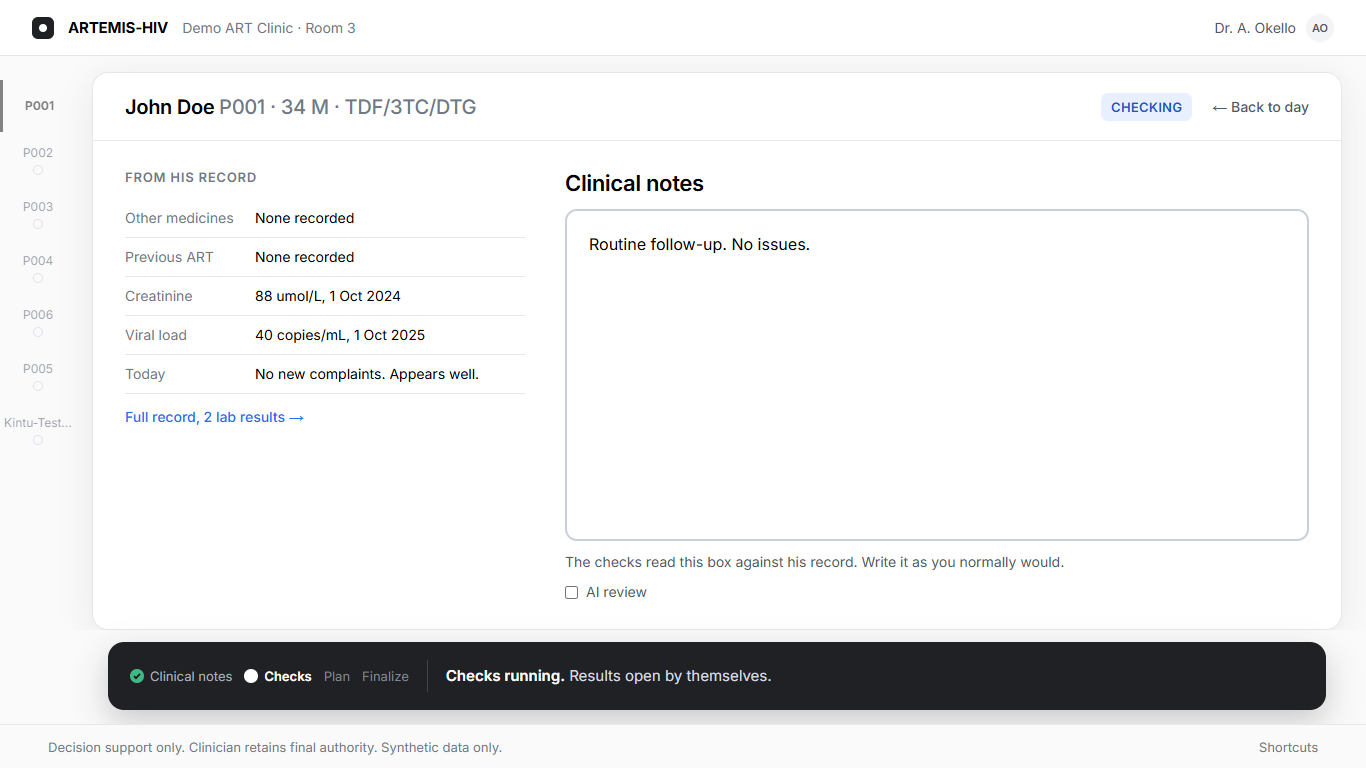
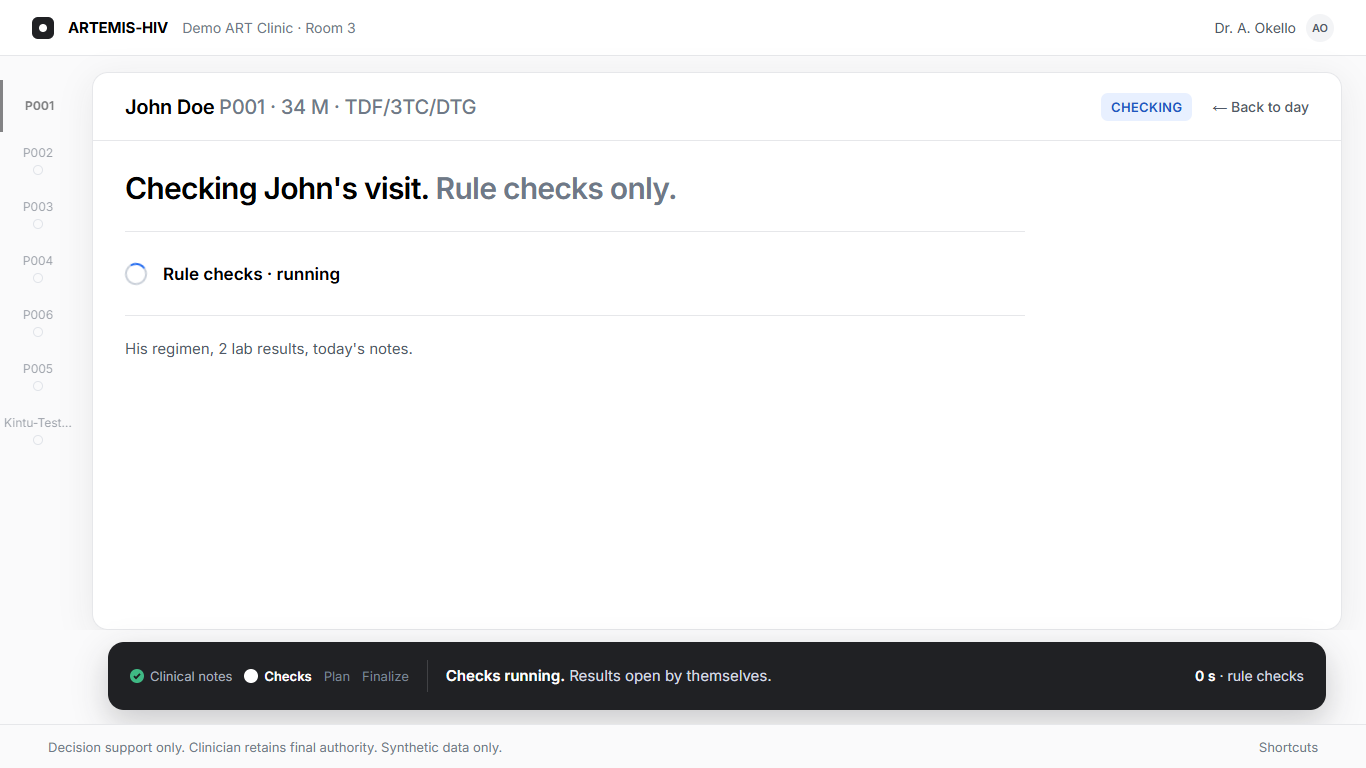
Checks running (step 4, screen S3), kept honest
The design shows per-step progress ("Rule checks · done, 2 alerts found",
"2 of 3 checks done"). The API answers once, when everything is done, so
the screen shows the design's layout with what is true: each check
"running", the real seconds so far, a bar that fills by time against the AI
review's usual 15 seconds (labelled "about", never reaching the end), and
what the checks read, from the record. The design's "the results will wait
in Rose's row" is left off until a saved visit can be reopened.

The browser test holds the request 1.5 s so the running screen is always
there to check; the screenshot with the AI review ticked never calls a
model (the request is held, then cancelled).

diff --git a/web/src/app/patients/[patientId]/running-view.tsx b/web/src/app/patients/[patientId]/running-view.tsx
@@ -1,0 +1,93 @@
+// Checks running (Paper FINAL S3), kept honest: the API answers once, when every check is done,
+// so no row says "done" early and nothing counts alerts before the answer. The seconds are real;
+// the bar is time against the AI review's usual length, never progress the API reported.
+import { useEffect, useState } from "react";
+
+import type { PatientDetail } from "@/lib/api/client";
+import { firstName } from "@/lib/alerts";
+import { checkReads } from "@/lib/record";
+
+/** The AI review's usual length (GLM 5.2 averaged 14 s in Phase 2; the design says about 15). */
+export const AI_USUAL_SECONDS = 15;
+
+/** Whole seconds since `startedAt`, ticking once a second. */
+export function useElapsedSeconds(startedAt: number): number {
+  const [now, setNow] = useState(startedAt);
+  useEffect(() => {
+    const tick = setInterval(() => setNow(Date.now()), 1000);
+    return () => clearInterval(tick);
+  }, []);
+  return Math.max(0, Math.floor((now - startedAt) / 1000));
+}
+
+/** How far the bar reaches: elapsed time against the usual length, stopping short of the end. */
+export function barShare(seconds: number): number {
+  return Math.min(seconds / AI_USUAL_SECONDS, 0.95);
+}
+
+export function RunningView({ patient, aiReview, seconds }: { patient: PatientDetail; aiReview: boolean; seconds: number }) {
+  return (
+    <section aria-label="Checks running" className="flex flex-col gap-6">
+      <h2 className="max-w-225 text-30 font-semibold tracking-[-0.025em] text-black">
+        Checking {firstName(patient.name || "the patient")}&apos;s visit.{" "}
+        <span className="text-muted-foreground">
+          {aiReview ? `The AI review takes about ${AI_USUAL_SECONDS} seconds.` : "Rule checks only."}
+        </span>
+      </h2>
+      <ul className="flex max-w-225 flex-col border-t border-line">
+        <Row title="Rule checks" state="running" />
+        {aiReview && <Row title="AI review" state="reading" seconds={seconds} />}
+      </ul>
+      <p className="max-w-225 text-15 leading-[18px] text-ink-2" aria-live="off">
+        {checkReads(patient, aiReview)}
+      </p>
+    </section>
+  );
+}
+
+function Row({ title, state, seconds }: { title: string; state: string; seconds?: number }) {
+  return (
+    <li className="flex min-h-21 items-center gap-4 border-b border-line py-4">
+      <span aria-hidden className="size-5.5 shrink-0 animate-spin rounded-full border-2 border-line-strong border-t-blue motion-reduce:animate-none" />
+      <div className="flex flex-1 flex-col gap-2">
+        <p className="text-17 font-semibold text-black">
+          {title} · {state}
+          {seconds !== undefined && (
+            <span className="font-medium text-muted-foreground">
+              {" "}
+              {seconds} s of about {AI_USUAL_SECONDS} s
+            </span>
+          )}
+        </p>
+        {seconds !== undefined && (
+          <div className="h-1.5 w-full rounded-[3px] bg-blue-wash">
+            <div className="h-1.5 rounded-[3px] bg-blue transition-[width] duration-1000 ease-linear" style={{ width: `${barShare(seconds) * 100}%` }} />
+          </div>
+        )}
+      </div>
+    </li>
+  );
+}
+
+/** The running screen, counting its own seconds. */
+export function Running({ patient, aiReview, startedAt }: { patient: PatientDetail; aiReview: boolean; startedAt: number }) {
+  return <RunningView patient={patient} aiReview={aiReview} seconds={useElapsedSeconds(startedAt)} />;
+}
+
+/** The tray's right side while the checks run (S3): the seconds so far, and the same bar. */
+export function RunningTrayStatus({ aiReview, startedAt }: { aiReview: boolean; startedAt: number }) {
+  const seconds = useElapsedSeconds(startedAt);
+  return (
+    <div className="flex shrink-0 flex-col items-end gap-2 pr-2.5">
+      <p className="text-14 leading-[18px] text-tray-text">
+        <span className="font-semibold text-white">{seconds} s</span>
+        {aiReview ? ` · AI review about ${AI_USUAL_SECONDS} s` : " · rule checks"}
+      </p>
+      {aiReview && (
+        <div className="h-[5px] w-60 rounded-[3px] bg-white/15">
+          <div className="h-[5px] rounded-[3px] bg-white transition-[width] duration-1000 ease-linear" style={{ width: `${barShare(seconds) * 100}%` }} />
+        </div>
+      )}
+    </div>
+  );
+}

diff --git a/web/src/app/patients/[patientId]/visit-screen.tsx b/web/src/app/patients/[patientId]/visit-screen.tsx
@@ -17,6 +17,7 @@ import { possessive } from "@/lib/record";
 import { AlertView } from "./alert-view";
 import { OverrideView } from "./override-view";
 import { RecordPanel } from "./record-panel";
+import { Running, RunningTrayStatus } from "./running-view";
 import { decisionWords, ResultsView } from "./results-view";
 
 const NOTES_FORM = "clinical-notes";
@@ -89,13 +90,25 @@ function Visit({ patient }: { patient: PatientDetail }) {
   );
 
   // A new check starts the review afresh.
-  return <VisitView key={check.data?.visit_id ?? "before"} patient={patient} check={check} notesForm={notesForm} />;
+  // The AI review this run: the box, unless "Run the AI review again" asked for it.
+  const aiThisRun = check.variables?.useAi ?? useAi;
+  return <VisitView key={check.data?.visit_id ?? "before"} patient={patient} check={check} notesForm={notesForm} aiThisRun={aiThisRun} />;
 }
 
 /** Which screen the pane shows. The results screen comes first after the checks (owner, 2026-11-26). */
 type View = { name: "notes" } | { name: "results" } | { name: "alert"; i: number } | { name: "override"; i: number; other: boolean };
 
-function VisitView({ patient, check, notesForm }: { patient: PatientDetail; check: CheckMutation; notesForm: React.ReactNode }) {
+function VisitView({
+  patient,
+  check,
+  notesForm,
+  aiThisRun,
+}: {
+  patient: PatientDetail;
+  check: CheckMutation;
+  notesForm: React.ReactNode;
+  aiThisRun: boolean;
+}) {
   const result = check.data;
   const [view, setView] = useState<View>(result ? { name: "results" } : { name: "notes" });
   const [saved, setSaved] = useState<DecisionOut[]>([]);
@@ -138,6 +151,7 @@ function VisitView({ patient, check, notesForm }: { patient: PatientDetail; chec
           {...trayFor({
             view,
             pending: check.isPending,
+            runningStatus: <RunningTrayStatus aiReview={aiThisRun} startedAt={check.submittedAt} />,
             result,
             savedByAlert,
             saving: save.isPending,
@@ -156,7 +170,8 @@ function VisitView({ patient, check, notesForm }: { patient: PatientDetail; chec
     >
       <PaneHeader title={patient.name} meta={patientMeta(patient)} aside={<StatusChip state={state} />} />
       <PaneContent>
-        {(view.name === "notes" || !result) && (
+        {check.isPending && <Running patient={patient} aiReview={aiThisRun} startedAt={check.submittedAt} />}
+        {!check.isPending && (view.name === "notes" || !result) && (
           <>
             {notesForm}
             {check.isError && (
@@ -233,6 +248,7 @@ function patientMeta(p: PatientDetail): string {
 function trayFor({
   view,
   pending,
+  runningStatus,
   result,
   savedByAlert,
   saving,
@@ -245,6 +261,7 @@ function trayFor({
 }: {
   view: View;
   pending: boolean;
+  runningStatus: React.ReactNode;
   result: VisitCheck | undefined;
   savedByAlert: Map<string, DecisionOut>;
   saving: boolean;
@@ -257,7 +274,7 @@ function trayFor({
 }): TrayProps {
   const later = { plan: "todo", finalize: "todo" } as const;
   if (pending) {
-    return { notes: "done", checks: "current", alerts: [], ...later, lead: "Checks running.", rest: "Results open by themselves.", status: <span /> };
+    return { notes: "done", checks: "current", alerts: [], ...later, lead: "Checks running.", rest: "Results open by themselves.", status: runningStatus };
   }
   const runChecks: TrayButton = { label: "Run checks", form: NOTES_FORM };
   if (!result) {

diff --git a/web/src/lib/record.test.ts b/web/src/lib/record.test.ts
@@ -1,7 +1,7 @@
 import assert from "node:assert/strict";
 import { test } from "node:test";
 
-import { asSentence, labCount, labRows, longDate, otherMedicines, possessive, previousArt, todaySummary } from "./record.ts";
+import { asSentence, checkReads, labCount, labRows, longDate, otherMedicines, possessive, previousArt, todaySummary } from "./record.ts";
 
 test("a lab row: the latest result with its unit as recorded, and the earliest for comparison", () => {
   const rows = labRows(
@@ -60,4 +60,12 @@ test("today's summary: the complaints and examination as written, each ending as
   assert.equal(todaySummary({ complaints_symptoms: "No new complaints", examination_findings: "Appears well" }), "No new complaints. Appears well.");
   assert.equal(todaySummary({ complaints_symptoms: "  ", examination_findings: 3 }), null);
   assert.equal(asSentence("Done!"), "Done!");
+});
+
+test("what the checks read, from the record (S3)", () => {
+  assert.equal(
+    checkReads({ sex: "F", other_medications: ["Ibuprofen 400 mg"], labs: { cr: [{ date: "2026-01-01", value: "1", unit: "", source: "" }, { date: "2025-01-01", value: "1", unit: "", source: "" }] }, lab_notes: [] }, true),
+    "Her regimen, 1 other medicine, 2 lab results, today's notes, Ugandan guideline passages.",
+  );
+  assert.equal(checkReads({ sex: "M", other_medications: [], labs: {}, lab_notes: [{ date: null, source: "", text: "x" }] }, false), "His regimen, lab notes, today's notes.");
 });

diff --git a/web/e2e/visit-check.spec.ts b/web/e2e/visit-check.spec.ts
@@ -33,8 +33,17 @@ test("a clinician runs the checks, reviews the alert on its own screen and decid
   await notes.fill("Routine follow-up. No complaints. Continue TLD, 3-month refill.");
   await expect(page.getByRole("checkbox", { name: "AI review" })).not.toBeChecked();
   const tray = page.getByRole("region", { name: "Visit steps" });
+  // Hold the check for 1.5 s before it goes to the real backend, so the running screen is always
+  // there to see, however fast the backend answers.
+  await page.route("**/api/patients/*/visits", async (route) => {
+    await new Promise((r) => setTimeout(r, 1500));
+    await route.continue();
+  });
   const replyPromise = page.waitForResponse((r) => r.url().endsWith("/api/patients/P001/visits") && r.request().method() === "POST");
   await tray.getByRole("button", { name: "Run checks" }).click();
+  // While they run (S3): the first check of a run loads the search model, so this shows for a while.
+  await expect(page.getByRole("heading", { name: "Checking John's visit. Rule checks only." })).toBeVisible();
+  await expect(page.getByRole("region", { name: "Checks running" })).toContainText("His regimen, 2 lab results, today's notes.");
 
   // The results screen first (owner, 2026-11-26): the API's banners and one row per alert.
   const results = page.getByRole("region", { name: "Check results" });

diff --git a/web/src/lib/record.ts b/web/src/lib/record.ts
@@ -97,3 +97,25 @@ export function todaySummary(intake: PatientDetail["intake"]): string | null {
     .map(asSentence);
   return parts.length ? parts.join(" ") : null;
 }
+
+/**
+ * What the checks read, from the record (S3): "Her regimen, 1 other medicine, 12 lab results,
+ * today's notes, Ugandan guideline passages." The passages are the AI review's, when it runs.
+ */
+export function checkReads(
+  p: Pick<PatientDetail, "sex" | "other_medications" | "labs" | "lab_notes">,
+  aiReview: boolean,
+): string {
+  const meds = p.other_medications.filter((m) => m.trim()).length;
+  const labs = labCount(p.labs);
+  const parts = [
+    `${possessive(p.sex)} regimen`,
+    meds ? `${meds} other ${meds === 1 ? "medicine" : "medicines"}` : null,
+    labs ? `${labs} lab ${labs === 1 ? "result" : "results"}` : null,
+    p.lab_notes.length ? "lab notes" : null,
+    "today's notes",
+    aiReview ? "Ugandan guideline passages" : null,
+  ].filter(Boolean) as string[];
+  const text = parts.join(", ");
+  return `${text.charAt(0).toUpperCase()}${text.slice(1)}.`;
+}

diff --git a/web/e2e/screens.spec.ts b/web/e2e/screens.spec.ts
@@ -83,3 +83,18 @@ for (const { outcome, patient, file } of STATES) {
     await page.screenshot({ path: path.join(OUT, file) });
   });
 }
+
+// Checks running with the AI review ticked (S3). The request is held and then cancelled, so no
+// model is called; the screenshot shows the screen 6 seconds in.
+test("checks running, with the AI review", async ({ page }) => {
+  await page.route("**/api/patients/*/visits", async (route) => {
+    await new Promise((r) => setTimeout(r, 9000));
+    await route.abort();
+  });
+  await page.goto("/");
+  await page.getByRole("main").getByRole("link", { name: "John Doe" }).click();
+  await page.getByRole("checkbox", { name: "AI review" }).check();
+  await page.getByRole("region", { name: "Visit steps" }).getByRole("button", { name: "Run checks" }).click();
+  await expect(page.getByRole("region", { name: "Checks running" })).toContainText("6 s of about 15 s", { timeout: 10_000 });
+  await page.screenshot({ path: path.join(OUT, "web-S3-checks-running-ai.png") });
+});

diff --git a/web/src/lib/utils.ts b/web/src/lib/utils.ts
@@ -8,7 +8,7 @@ import { createCn } from "cn/config";
 export const cn = createCn({
   extend: {
     classGroups: {
-      "font-size": [{ text: ["11", "12", "13", "14", "15", "16", "19", "20", "22", "30"] }],
+      "font-size": [{ text: ["11", "12", "13", "14", "15", "16", "17", "19", "20", "22", "30"] }],
       rounded: [{ rounded: ["logo", "chip", "btn", "window"] }],
       shadow: [{ shadow: ["window", "tray"] }],
     },

diff --git a/web/src/app/globals.css b/web/src/app/globals.css
@@ -65,6 +65,8 @@
   --text-15--line-height: 18px;
   --text-16: 16px;
   --text-16--line-height: 20px;
+  --text-17: 17px;
+  --text-17--line-height: 22px;
   --text-19: 19px;
   --text-19--line-height: 29px;
   --text-20: 20px;
